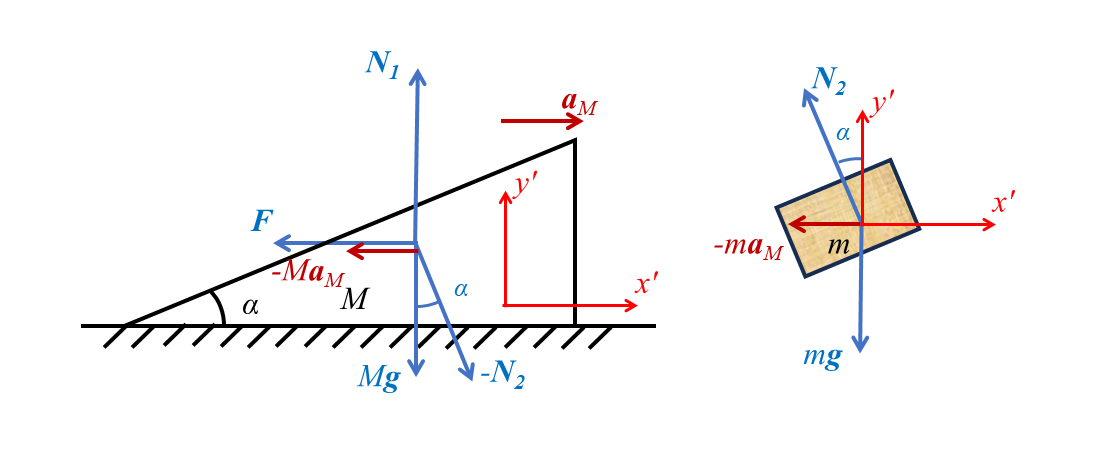
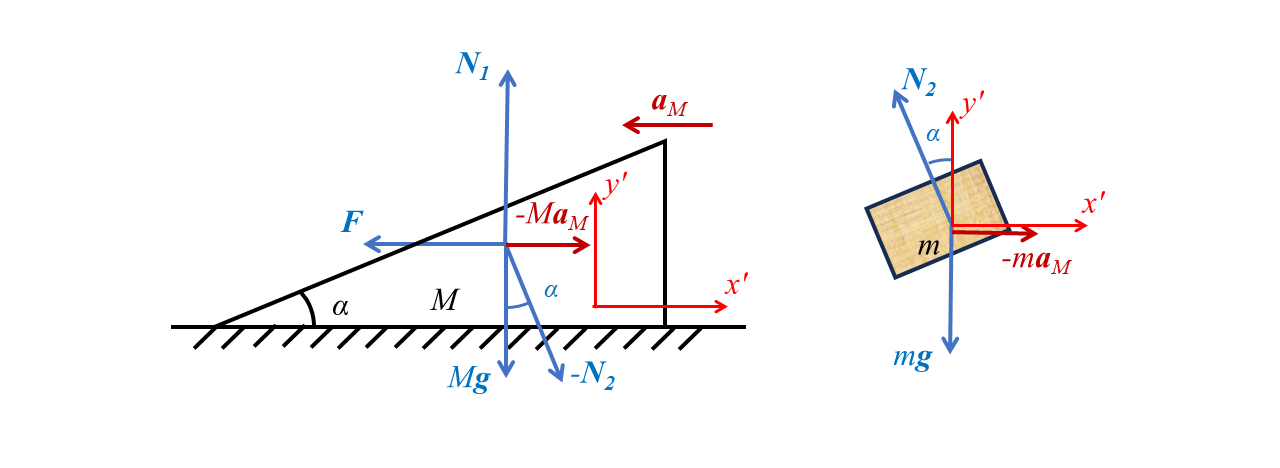
订正了一些严谨性问题

Changed region(s): [[0.0615, 0.0899, 0.5846, 0.8394], [0.6462, 0.1499, 0.8923, 0.8094], [0.8923, 0.4197, 0.9231, 0.4497]]

diff --git a/6.7 第二章：牛顿力学的基本定律.tex b/6.7 第二章：牛顿力学的基本定律.tex
@@ -72,7 +72,7 @@
 \begin{center}
   {\Large\bfseries\color{mainblue} 格物助航｜每日一练}\par
   \vspace{0.25em}
-  {\large 力学：牛顿力学的基本定律}\par
+  {\large 力学第二章：牛顿力学的基本定律}\par
   \vspace{0.35em}
   {\small 2026年6月7日}\par
   \vspace{0.35em}
@@ -97,7 +97,7 @@
 \noindent\textbf{题目}\quad
 质量为$M$的斜面体置于光滑水平面，斜面倾角为$\alpha$，质量$m$的小物块放在斜面上，各接触面光滑。求：
 
-（1）无外力作用时，$m$、$M$各自相对地面的加速度；
+（1）不施加水平恒力$F$时，$m$、$M$各自相对地面的加速度；
 
 （2）若要$m$与$M$保持相对静止，需要对斜面施加多大的水平恒力$F$。
 
@@ -110,7 +110,7 @@
 \section*{详细解法}
 
 \subsection*{第一问的求解}
-选取地面为惯性参考系，建立直角坐标系如图，$x$轴水平向右为正，$y$轴竖直向上为正。分开对物块和斜面受力分析。无外力作用时，两物体的受力分析如下图所示：
+选取地面为惯性参考系，建立直角坐标系如图，$x$轴水平向右为正，$y$轴竖直向上为正。分开对物块和斜面受力分析。不施加水平恒力$F$时，两物体的受力分析如下图所示：
 \vspace{0.4em}
 \begin{center}
 \includegraphics[width=0.92\textwidth]{fig_6.7/fig_2.png}